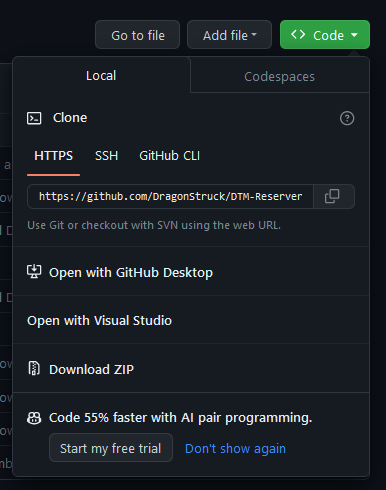
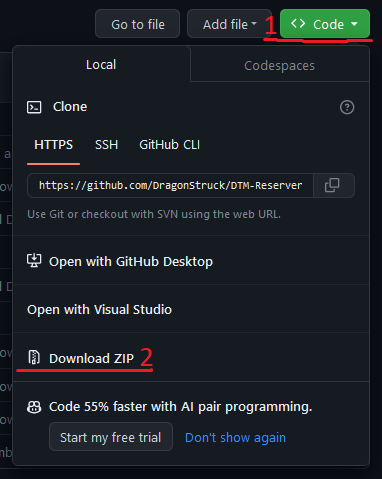
iets

diff --git a/README.md b/README.md
@@ -5,7 +5,7 @@ De git repository voor het DTM Reserveringen school project.
 - Deze applicatie heeft Node Package Manager (NPM) nodig en is hier te downloaden: [Node.js download page](https://nodejs.org/en/download)
 - Download de applicatie door de `<> Code -> Download ZIP`
 
-![download](https://github.com/DragonStruck/DTM-Reserveringen/blob/dev/src/main/resources/static/images/download.png?raw=true)
+![download](https://github.com/DragonStruck/DTM-Reserveringen/blob/dev/src/main/resources/static/images/github/download.png?raw=true)
 
 - Unzip de source code en open de map als IntelliJ project.
 - Open de console binnen IntelliJ en voer het `npm install` command uit.
